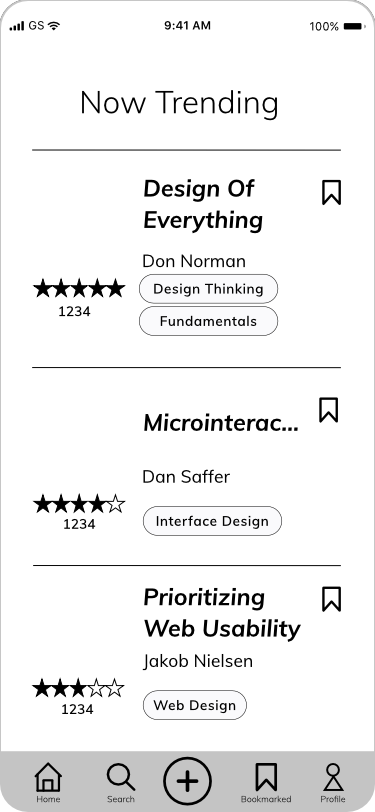
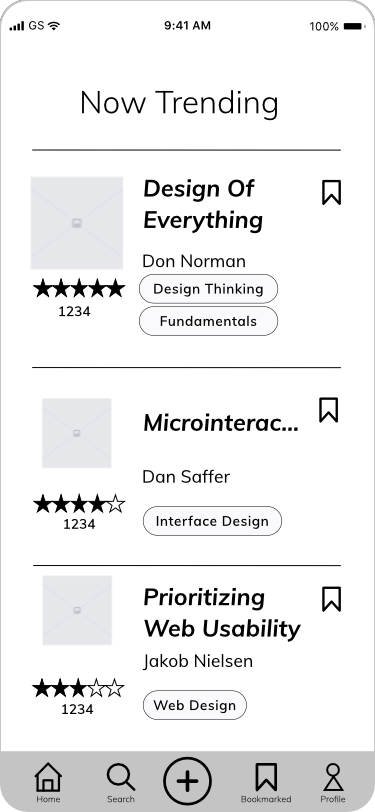
style changes to DesignReads, padding, images

Changed region(s): [[0.088, 0.2155, 0.3227, 0.3387], [0.1173, 0.7081, 0.2933, 0.8005], [0.1173, 0.4926, 0.2933, 0.585]]

diff --git a/designreadsProcess.html b/designreadsProcess.html
@@ -57,12 +57,12 @@
 	</div>
 	<section class="container-90">
 		<div class="container-4-dr">
-			<div class="">
+			<div class="div3">
 				<div class="">
 					<img src="images/drsketch.png" alt="Design Reads Sketch" class="detail"/>
 				</div>
 			</div>
-			<div class="">
+			<div class="div3">
 				<div class="">
 					<img src="images/drsplashlight.png" alt="Design Reads Iteration" class="detail"/>
 				</div>
@@ -354,81 +354,79 @@
 
 														</div>
 														</div>
-															<div></div>
 														</div>
-														<div>2</div>
-														<div class="container-2">
-															<div>
-
-														</div>
-															<div>
-															<h4 class="sectionlabel">Solution</h4>
-															</div>
-														</div>
-														<div class="container-2">
-															<div>
-															<h4 class="sectionlabel">Problem</h4>
-															<img src="images/dr-mfi-1a.svg" alt="Screen Before Iteration">
-														</div>
-															<div>
-															<h4 class="sectionlabel">Solution</h4>
-															<img src="images/dr-mfi-1b.svg" alt="Screen After Iteration"/>
-															</div>
-														</div>
-														</section>
-														<!--Iteration 2-->
-														<section class="container-2 center">
+														<div class="container-2third-case">
 															<div>
 																<h4 class="sectionlabel">Problem</h4>
-																<img src="images/dr-mfi-2a.svg" alt="Screen Before Iteration"/>
 																<p class="content pads">Users found that the content added screen was too similar to the former screen.
 																	They thought the flow should finish with a more distinct screen to show that the flow was completed.</p>
-																</div>
-																<div>
 																	<h4 class="sectionlabel">Solution</h4>
-																	<img src="images/dr-mfi-2b.svg" alt="Screen After Iteration"/>
 																	<p class="content pads">The added content now becomes a card when added instead of sharing the same layout with the add content flow.
 																		The card now displays on the trending feed instead of having its own page.
 																		The card mimics the cards used through out the rest of the application and
-																		displays that the content is added. </p>
+																		displays that the content is added.</p>
+																</div>
+																<div class="container-2-case">
+																	<div>
+																		<h4 class="caption center">Problem</h4>
+																		<img src="images/dr-mfi-2a.png" alt="Screen Before Iteration">
 																	</div>
-																</section>
+																	<div>
+																	<h4 class="caption center">Solution</h4>
+																	<img src="images/dr-mfi-2b.png" alt="Screen After Iteration"/>
+
+																</div>
+																</div>
+																</div>
 																<!--Iteration 3-->
-																<section class="container-2 center">
+																<div class="container-2third-case">
 																	<div>
 																		<h4 class="sectionlabel">Problem</h4>
-																		<img src="images/dr-mfi-3a.svg" alt="Screen Before Iteration"/>
 																		<p class="content pads">Users thought that the add icon was hard to find.</p>
-																	</div>
-																	<div>
-																		<h4 class="sectionlabel">Solution</h4>
-																		<img src="images/dr-mfi-3b.svg" alt="Screen After Iteration"/>
-																		<p class="content pads">Being that add is universal, we removed the label and made the icon larger.
-																			Adding content is an important aspect of the application and more
-																			hierarchy was needed to establish this to improve usability.</p>
+																			<h4 class="sectionlabel">Solution</h4>
+																			<p class="content pads">Being that add is universal, we removed the label and made the icon larger.
+																				Adding content is an important aspect of the application and more
+																				hierarchy was needed to establish this to improve usability.</p>
 																		</div>
-																	</section>
+																		<div class="container-2-case">
+																			<div>
+																				<h4 class="caption center">Problem</h4>
+																				<img src="images/dr-mfi-3a.png" alt="Screen Before Iteration">
+																			</div>
+																			<div>
+																			<h4 class="caption center">Solution</h4>
+																			<img src="images/dr-mfi-3b.png" alt="Screen After Iteration"/>
+
+																		</div>
+																		</div>
+																		</div>
 																	<!--Iteration 4-->
-																	<section class="container-2 center">
+																	<div class="container-2third-case">
 																		<div>
 																			<h4 class="sectionlabel">Problem</h4>
-																			<img src="images/dr-mfi-4a.svg" alt="Screen Before Iteration"/>
 																			<p class="content pads">Users found that the post review button hard to find.</p>
-																		</div>
-																		<div>
-																			<h4 class="sectionlabel">Solution</h4>
-																			<img src="images/dr-mfi-4b.svg" alt="Screen After Iteration"/>
-																			<p class="content pads">The button was increased in size to make it more visible.</p>
-																		</div>
-																	</section>
+																				<h4 class="sectionlabel">Solution</h4>
+																				<p class="content pads">The button was increased in size to make it more visible.</p>
+																			</div>
+																			<div class="container-2-case">
+																				<div>
+																					<h4 class="caption center">Problem</h4>
+																					<img src="images/dr-mfi-4a.png" alt="Screen Before Iteration">
+																				</div>
+																				<div>
+																				<h4 class="caption center">Solution</h4>
+																				<img src="images/dr-mfi-4b.png" alt="Screen After Iteration"/>
 
+																			</div>
+																			</div>
+																			</div>
+																		</section>
 																	<!--Visual Design-->
 																	<section class="container-60 ">
 																		<div class="phases">
 																			<h2 class="sectionlabel">Visual Design</h2>
 																		</div>
 																	</section>
-
 																	<!--Style Tile-->
 																	<section class="container-80">
 																		<img src="images/dr-styletile.png" alt="DesignReads Style Tile"/>
@@ -444,10 +442,31 @@
 																			<h3 class="sectionlabel">High Fidelity Mockups</h3>
 																			<p class="content">The style tile created the look and feel of the brand and influenced the visual interface. We created two similiar, yet distinct mobile styles:
 																				one for iOS and one for Android. The mockups that are shown below are designed for iOS and closely follow the Apple Human Interface Guidelines.</p>
-																				<br/>
-																				<div class="center">
-																					<img src="images/dr-hifidash.svg" alt="High Fidelity Mockup of Project Dashboard"/>
-																				</div>
+																			</section>
+																				<section class="container-90">
+																					<div class="container-4-dr">
+																						<div class="div3">
+																							<div class="">
+																								<img src="images/drsketch.png" alt="Design Reads Sketch" class="detail"/>
+																							</div>
+																						</div>
+																						<div class="div3">
+																							<div class="">
+																								<img src="images/DR-dashboard.png" alt="Design Reads Iteration" class="detail"/>
+																							</div>
+																						</div>
+																						<div class="">
+																							<div class="">
+																								<img src="images/drhifisplash.png" alt="Design Reads Iteration" class="detail"/>
+																							</div>
+																						</div>
+																						<div class="">
+																							<div class="">
+																								<img src="images/dr-hifidash.png" alt="Design Reads final" class="detail"/>
+																							</div>
+																						</div>
+																					</div>
+																				</section>
 																			</section>
 
 																			<!--Final Design-->

diff --git a/css/stylere.css b/css/stylere.css
@@ -152,6 +152,7 @@ justify-content: flex-end;
   grid-template-columns: 1fr;
   padding-top: 2rem;
   padding-bottom: 2rem;
+  grid-gap: 20px;
 }
 .container-top {
   margin: 0 auto;
@@ -207,6 +208,7 @@ justify-content: flex-end;
   width: 80%;
   margin: 0 auto;
   text-align: center;
+  padding-bottom: 20px;
 }
 .container-80-p {
   width: 80%;
@@ -1229,6 +1231,14 @@ form {
     width: 75%;
     padding-top: 12rem;
   }
+  .container-top-pro {
+    margin: 0 auto;
+    padding-top: 100px;
+    margin-bottom: 25px;
+    display: grid;
+    grid-template-columns: 1fr;
+    background-color: #12344B;
+  }
   .marg-50 {
     margin-bottom: 40px;
   }
@@ -1657,6 +1667,14 @@ form {
     display: grid;
     grid-template-columns: 1fr 2fr;
     padding-top: 2.5rem
+  }
+  .container-top-pro {
+    margin: 0 auto;
+    padding-top: 100px;
+    margin-bottom: 25px;
+    display: grid;
+    grid-template-columns: 1fr;
+    background-color: #12344B;
   }
   .marg-50 {
     margin-bottom: 50px;
